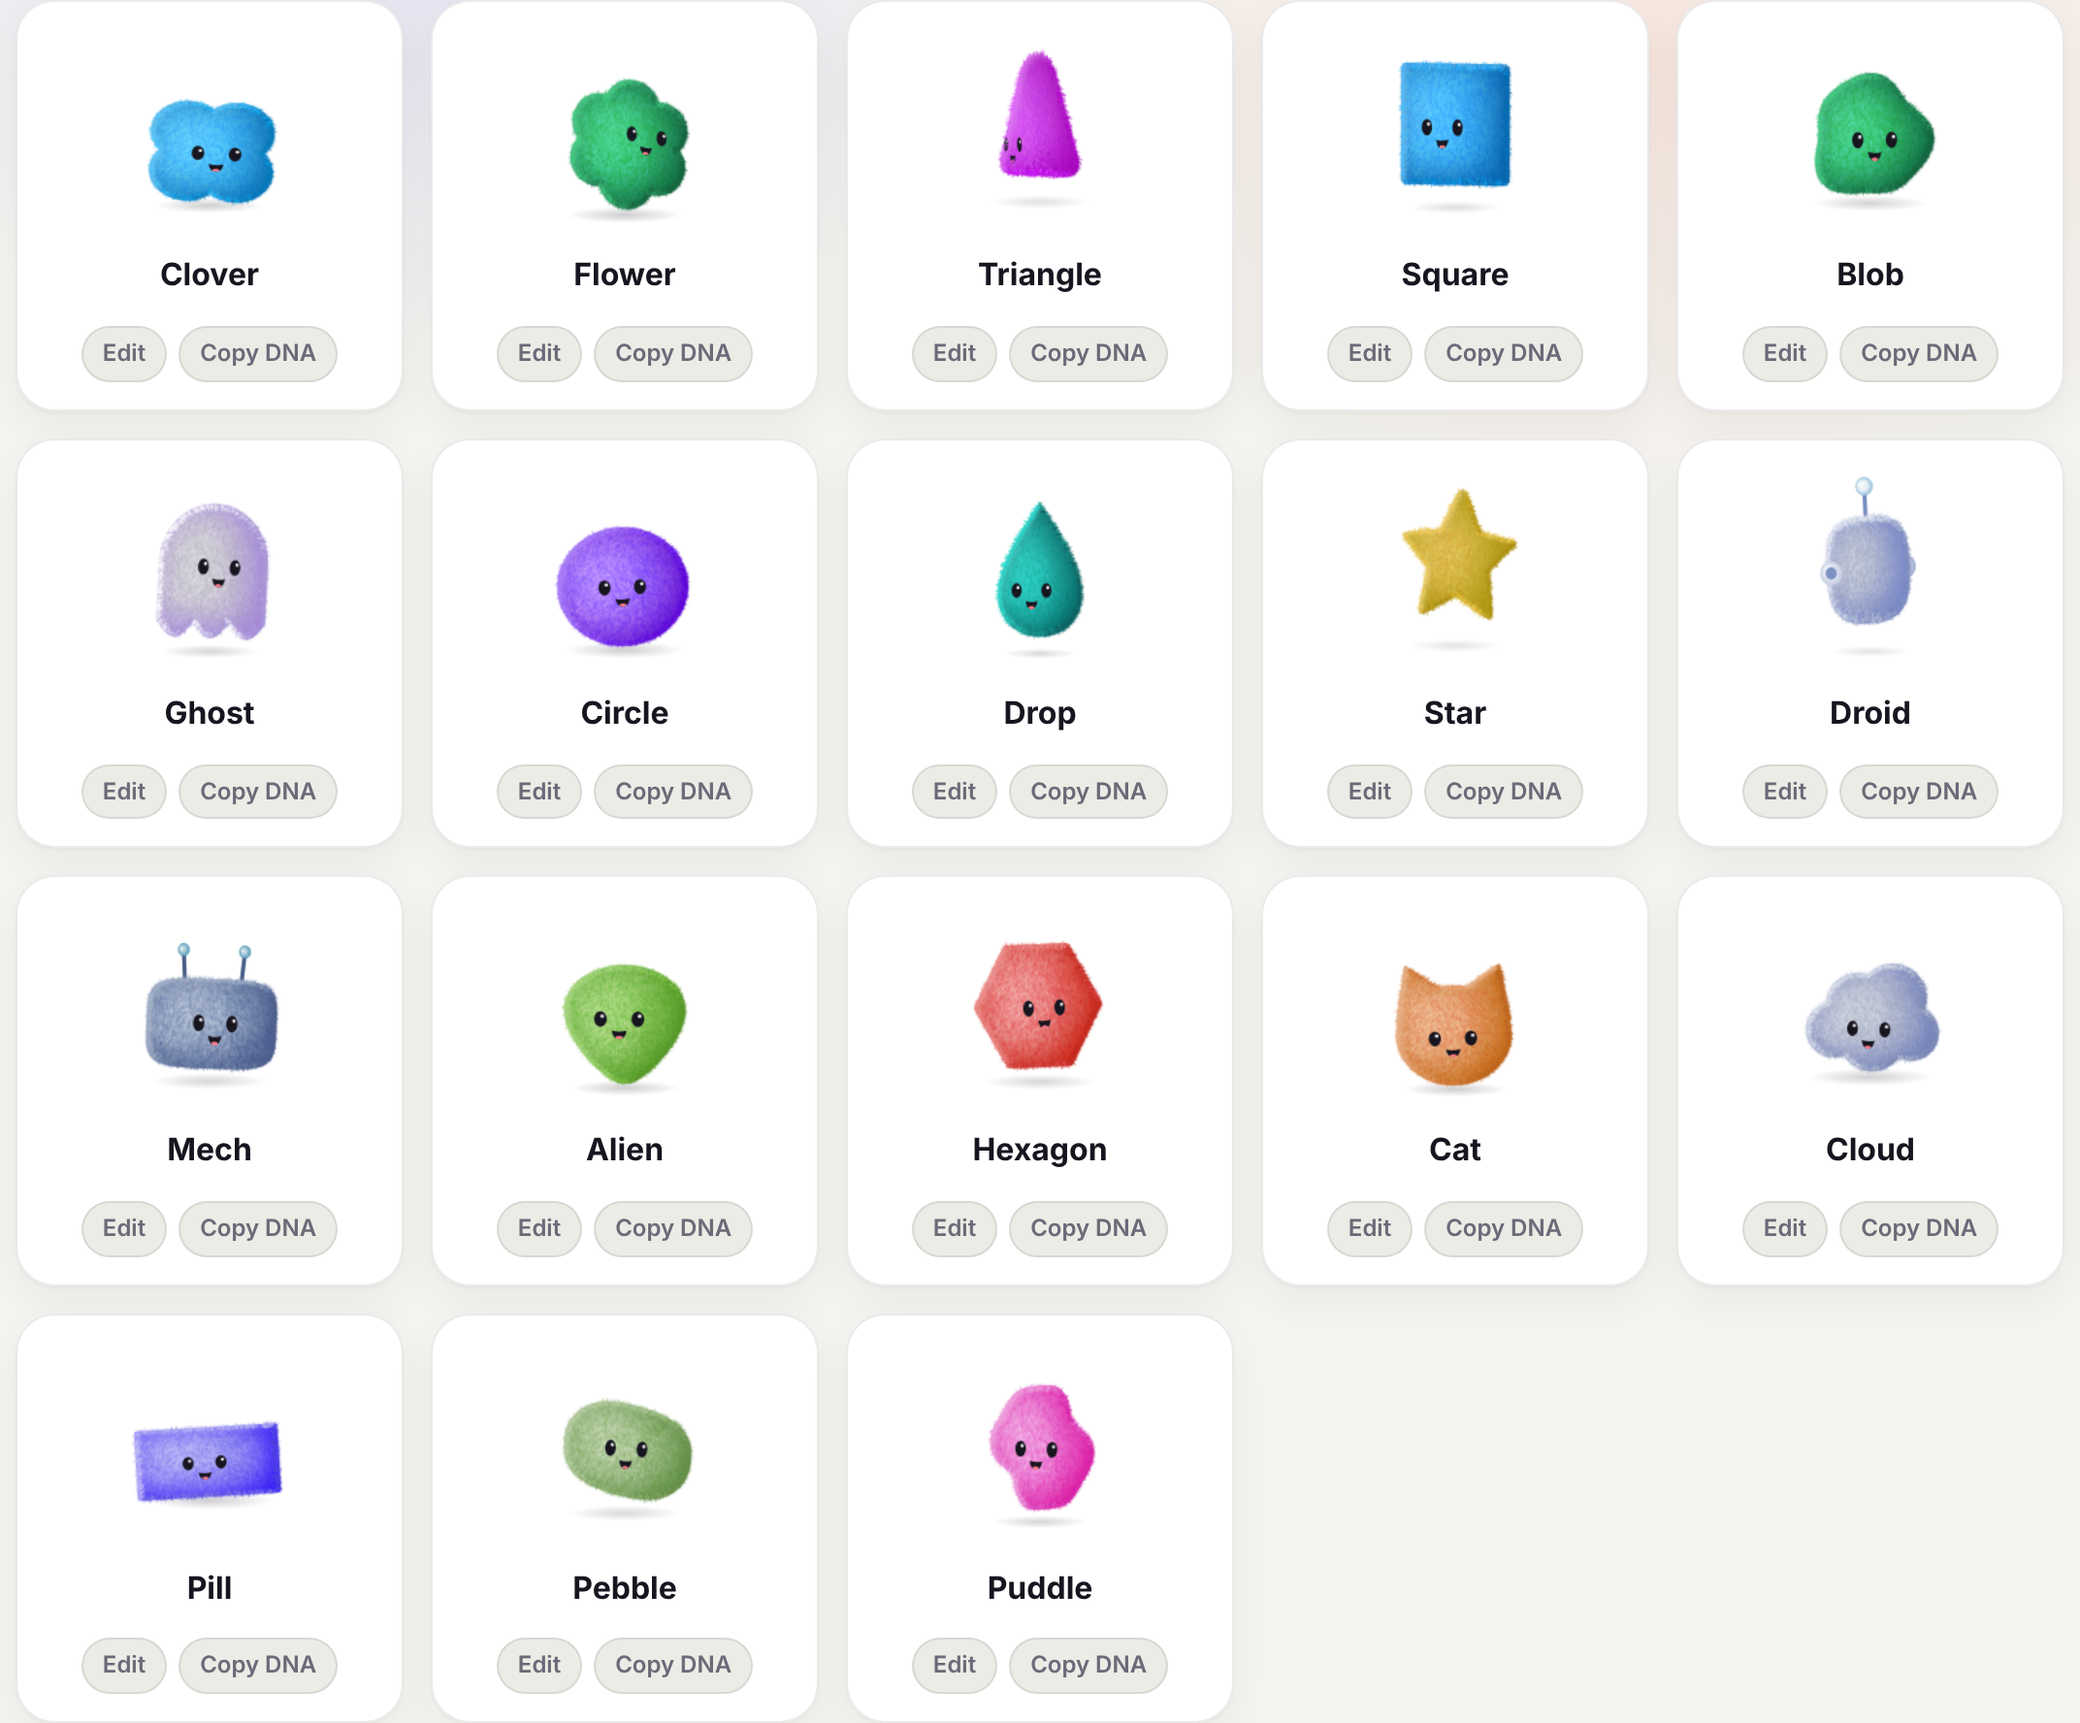
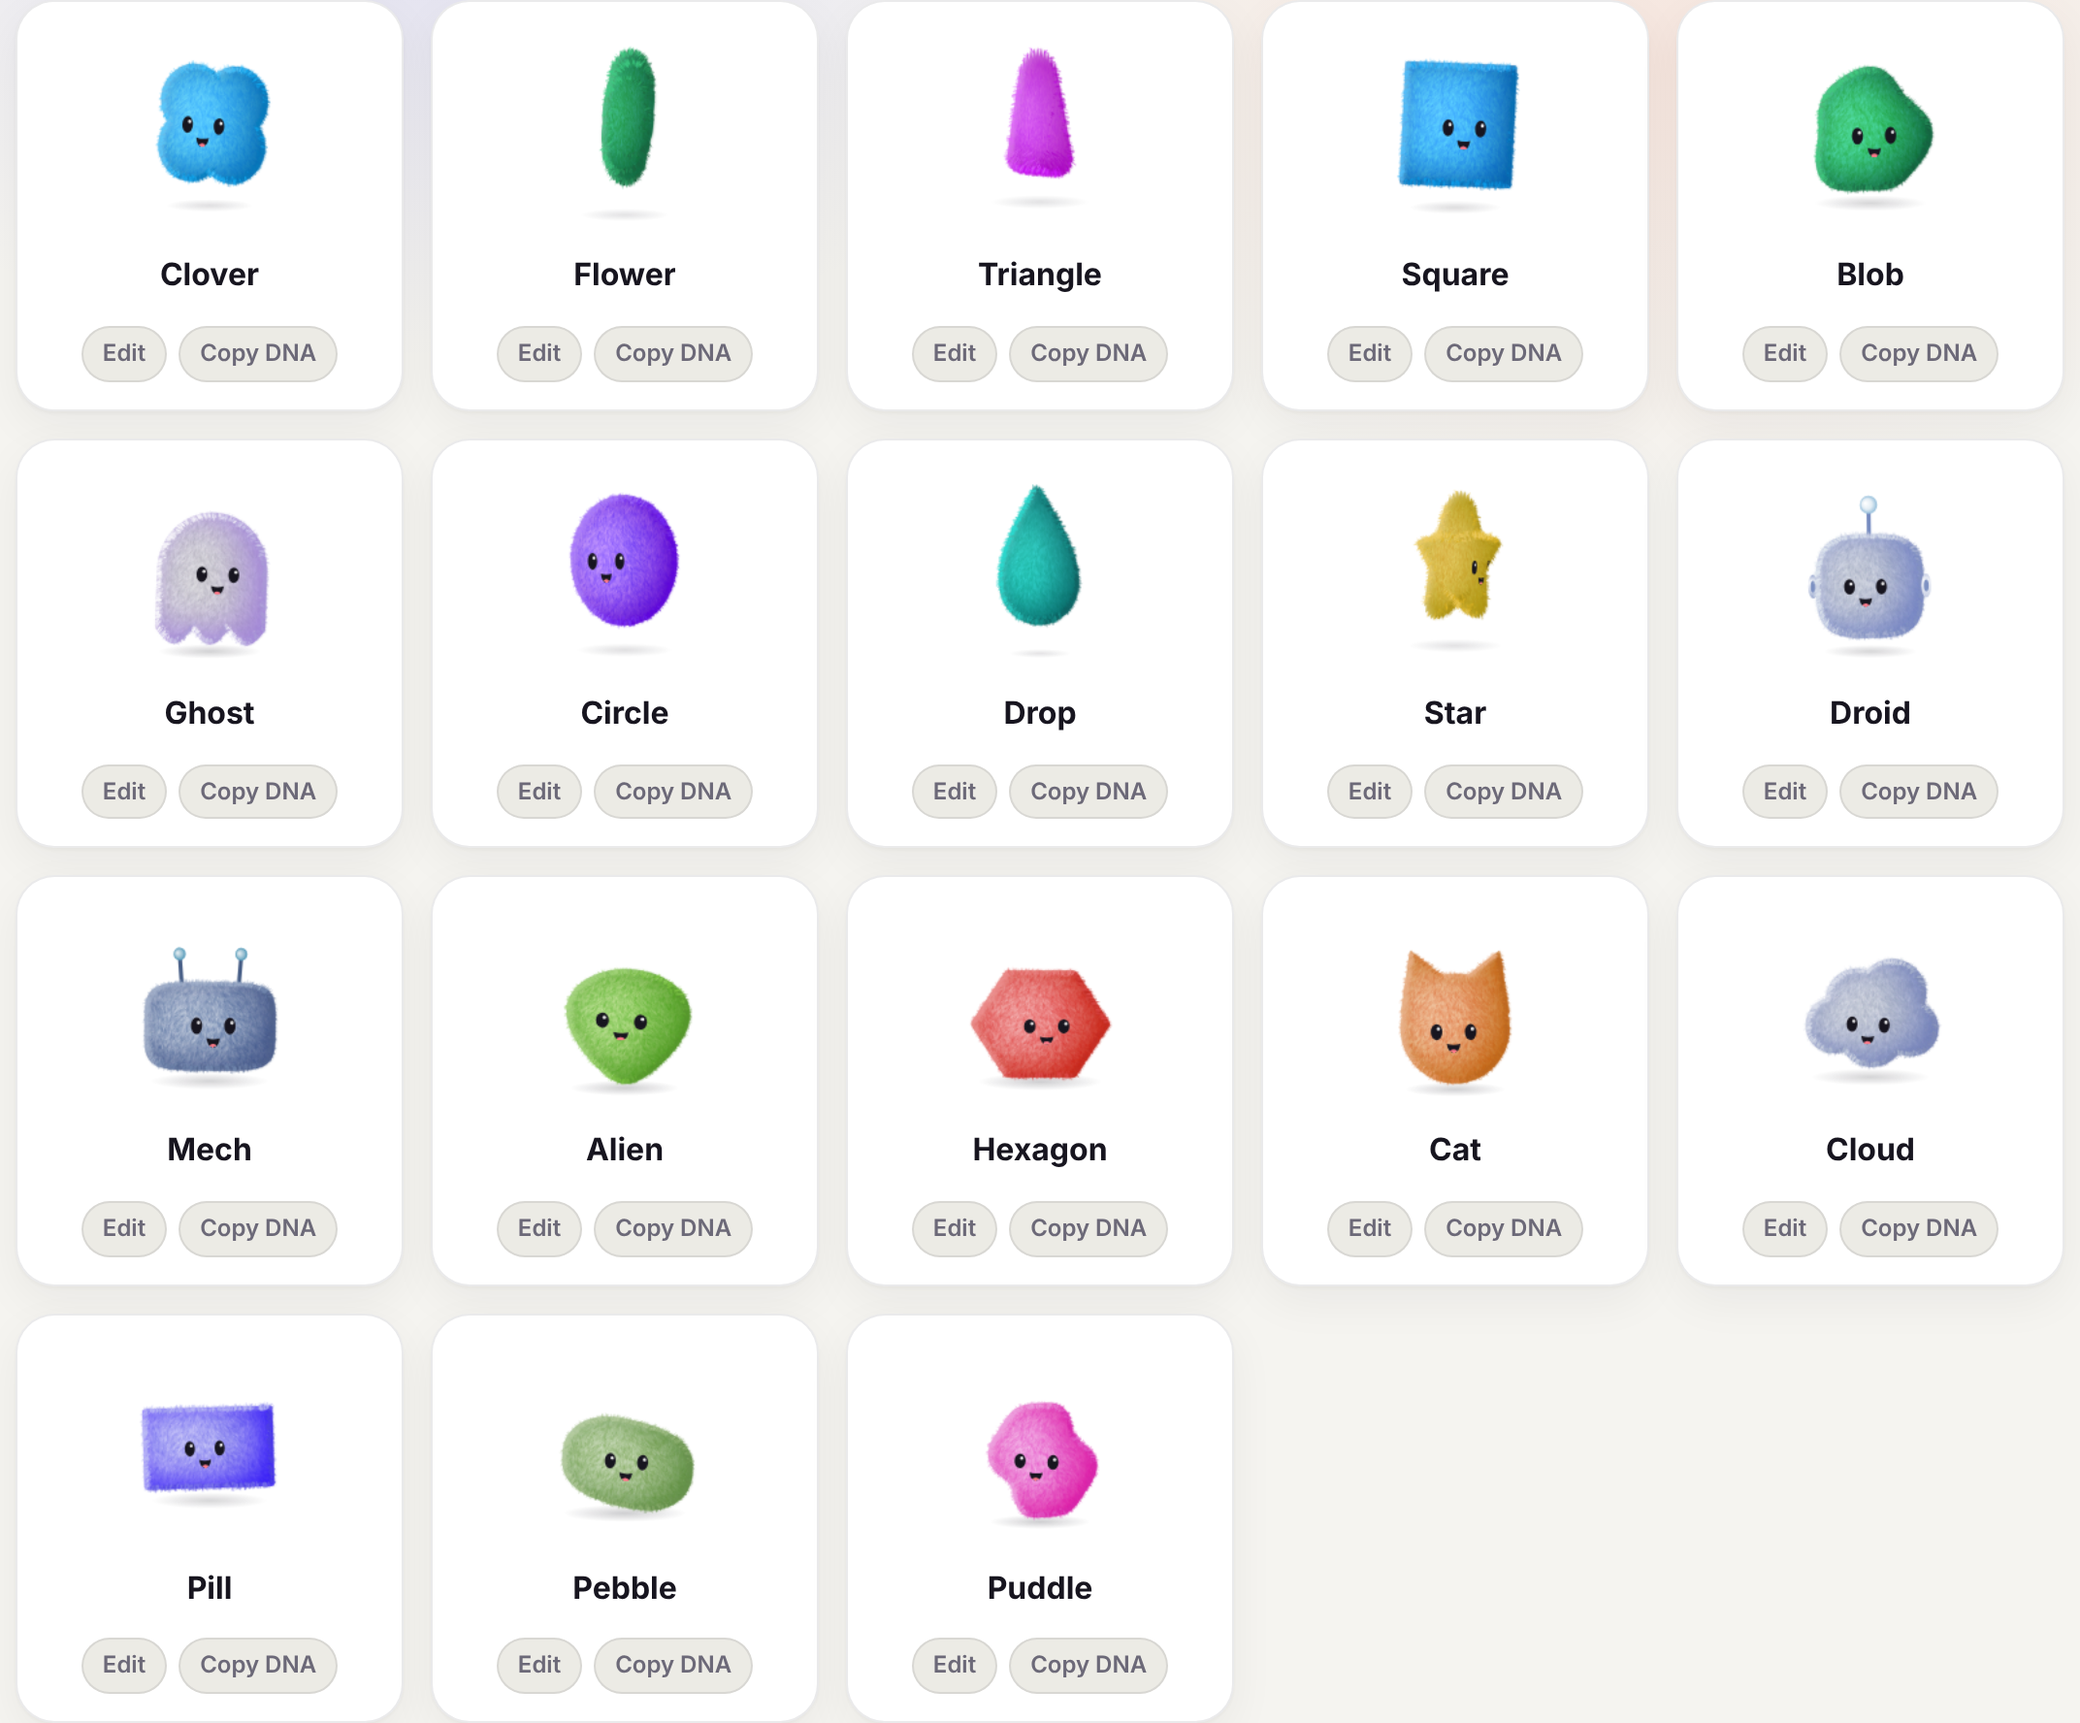
Site polish: a11y roles, code ligatures, tighter hero, refreshed README images
Claude-Session: https://claude.ai/code/session_013h96HCydzUiqHMrSVsiUZ2

diff --git a/docs/options.html b/docs/options.html
@@ -72,9 +72,9 @@
 <tr><td data-label="Option"><code>status</code></td><td data-label="Values"><code>none</code>, <code>typing</code>, <code>loading</code>, <code>done</code>, <code>error</code>, or <code>auto</code> (follows the state) — a small badge beside the avatar</td><td data-label="Default"><code>none</code></td></tr>
 <tr><td data-label="Option"><code>mood</code></td><td data-label="Values"><code>auto</code> (follows the conversation), <code>neutral</code>, <code>happy</code>, <code>sleepy</code>, <code>excited</code>, <code>grumpy</code>, <code>calm</code></td><td data-label="Default"><code>neutral</code></td></tr>
 <tr><td data-label="Option"><code>social</code></td><td data-label="Values">bots on the same page glance at each other</td><td data-label="Default"><code>false</code></td></tr>
-<tr><td data-label="Option"><code>toss</code></td><td data-label="Values">drag the avatar and throw it; it bounces back home</td><td data-label="Default"><code>false</code></td></tr>
-<tr><td data-label="Option"><code>petting</code></td><td data-label="Values">stroke it with the pointer and it leans into your hand</td><td data-label="Default"><code>false</code></td></tr>
-<tr><td data-label="Option"><code>sounds</code></td><td data-label="Values">soft sounds for hops, pokes and reactions; <code>true</code> or a volume 0–1</td><td data-label="Default"><code>false</code></td></tr>
+<tr><td data-label="Option"><code>toss</code></td><td data-label="Values">drag the avatar and throw it</td><td data-label="Default"><code>false</code></td></tr>
+<tr><td data-label="Option"><code>petting</code></td><td data-label="Values">stroke it with the pointer and it reacts</td><td data-label="Default"><code>false</code></td></tr>
+<tr><td data-label="Option"><code>sounds</code></td><td data-label="Values">sound effects; <code>true</code> or a volume 0–1</td><td data-label="Default"><code>false</code></td></tr>
 </tbody></table></div>
 
 <h2 id="colour-material">Colour &amp; material<a class="anchor" href="#colour-material" aria-label="Link to this section">#</a></h2>

diff --git a/assets/home.css b/assets/home.css
@@ -1,7 +1,7 @@
 /* Landing page only. */
 
 /* Hero ------------------------------------------------------------------- */
-.hero { position: relative; padding: 56px 0 0; isolation: isolate; }
+.hero { position: relative; padding: 44px 0 0; isolation: isolate; }
 .hero::before {
   content: ''; position: absolute; z-index: -1; left: 0; right: 0; top: 0; height: 1100px; pointer-events: none;
   background:
@@ -19,8 +19,8 @@
 .pill code { background: none; border: 0; padding: 0; color: var(--text); font-size: 12.5px; }
 .pill-tag { background: var(--accent); color: var(--accent-ink); font-weight: 700; font-size: 11.5px; padding: 3px 9px; border-radius: 99px; letter-spacing: .01em; }
 .hero h1 {
-  font-size: clamp(40px, 6.6vw, 76px); line-height: 1.02; letter-spacing: -0.048em; font-weight: 800;
-  margin: 22px 0 18px; text-wrap: balance;
+  font-size: clamp(40px, 6.6vw, 70px); line-height: 1.02; letter-spacing: -0.048em; font-weight: 800;
+  margin: 20px 0 16px; text-wrap: balance;
 }
 .glow {
   background: linear-gradient(100deg, var(--accent) 10%, #b26bff 45%, var(--warm) 90%);
@@ -32,7 +32,7 @@
 
 /* The demo window */
 .demo {
-  margin: 48px auto 0; max-width: 1000px; border-radius: 24px; background: var(--card);
+  margin: 40px auto 0; max-width: 1000px; border-radius: 24px; background: var(--card);
   border: 1px solid var(--line); box-shadow: var(--shadow-lg); overflow: hidden;
 }
 .demo-bar {
@@ -41,7 +41,7 @@
 }
 .demo-bar i { width: 11px; height: 11px; border-radius: 50%; background: var(--line-2); }
 .demo-bar span { margin: 0 auto; transform: translateX(-24px); font: 500 12px/1 var(--mono); color: var(--muted); }
-.demo-body { display: grid; grid-template-columns: minmax(0, 1.05fr) minmax(0, 1fr); height: 460px; }
+.demo-body { display: grid; grid-template-columns: minmax(0, 1.05fr) minmax(0, 1fr); height: 440px; }
 
 .stage {
   position: relative; display: grid; place-items: center; overflow: hidden;

diff --git a/index.html b/index.html
@@ -101,7 +101,7 @@
           <p>Every bot is a shape plus a look: material, fur, face, things to wear. Hire one and it takes over the chat above.</p>
         </div>
       </div>
-      <div class="crew-strip" id="crew" role="list"></div>
+      <div class="crew-strip" id="crew" role="group" aria-label="Crew to hire"></div>
       <div class="wrap crew-foot">
         <a class="link" href="playground/">Design your own in the studio <span aria-hidden="true">→</span></a>
       </div>
@@ -137,7 +137,7 @@
           <article class="feat">
             <div class="feat-vis"><div class="vis-bot" data-bot='{"type":"blob","toss":true,"petting":true,"ears":"bunny"}' data-demo="toss"></div><span class="vis-label">drag · throw · stroke</span></div>
             <h3>Toss &amp; pet</h3>
-            <p>Pick it up and throw it across the page, or stroke it till it purrs. Opt in, off by default.</p>
+            <p>Pick it up and throw it, or stroke it with the pointer. Opt in: both are off by default.</p>
             <code>{ toss: true, petting: true }</code>
           </article>
           <article class="feat">

diff --git a/docs/src/options.html b/docs/src/options.html
@@ -29,9 +29,9 @@ createBot('#agent', { type: 'cat', face: 'mouth', hat: 'party', bowTie: true, ac
 `status` | `none`, `typing`, `loading`, `done`, `error`, or `auto` (follows the state) — a small badge beside the avatar | `none`
 `mood` | `auto` (follows the conversation), `neutral`, `happy`, `sleepy`, `excited`, `grumpy`, `calm` | `neutral`
 `social` | bots on the same page glance at each other | `false`
-`toss` | drag the avatar and throw it; it bounces back home | `false`
-`petting` | stroke it with the pointer and it leans into your hand | `false`
-`sounds` | soft sounds for hops, pokes and reactions; `true` or a volume 0–1 | `false`
+`toss` | drag the avatar and throw it | `false`
+`petting` | stroke it with the pointer and it reacts | `false`
+`sounds` | sound effects; `true` or a volume 0–1 | `false`
 ::end
 
 <h2>Colour &amp; material</h2>

diff --git a/assets/site.css b/assets/site.css
@@ -72,8 +72,8 @@ body {
   -webkit-font-smoothing: antialiased;
 }
 a { color: inherit; }
-code, pre, kbd { font-family: var(--mono); font-size: 13px; }
-:not(pre) > code { background: var(--bg-2); padding: 2px 6px; border-radius: 6px; border: 1px solid var(--line); font-size: 0.86em; }
+code, pre, kbd { font-family: var(--mono); font-size: 13px; font-variant-ligatures: none; }
+:not(pre) > code { background: var(--bg-2); padding: 2px 6px; border-radius: 6px; border: 1px solid var(--line); font-size: 0.86em; -webkit-box-decoration-break: clone; box-decoration-break: clone; }
 img, svg { max-width: 100%; }
 /* An avatar reserves its box before the library defines the element. */
 bot-avatar { display: inline-block; line-height: 0; }

diff --git a/assets/landing.js b/assets/landing.js
@@ -186,7 +186,6 @@ const crewCards = CREW.map((m, i) => {
   const card = document.createElement('button');
   card.type = 'button';
   card.className = 'crew-card';
-  card.setAttribute('role', 'listitem');
   card.setAttribute('aria-pressed', String(i === 0));
   card.setAttribute('aria-label', `Hire ${m.label}, ${m.role}`);
   const slot = document.createElement('div');

diff --git a/assets/code.js b/assets/code.js
@@ -66,7 +66,7 @@ export function enhanceCode(root = document) {
       pre.replaceWith(box);
       box.append(pre);
     }
-    box.append(copyButton(() => pre.textContent));
+    box.append(copyButton(() => pre.textContent.replace(/^\$ /gm, '')));
   }
 }
 
